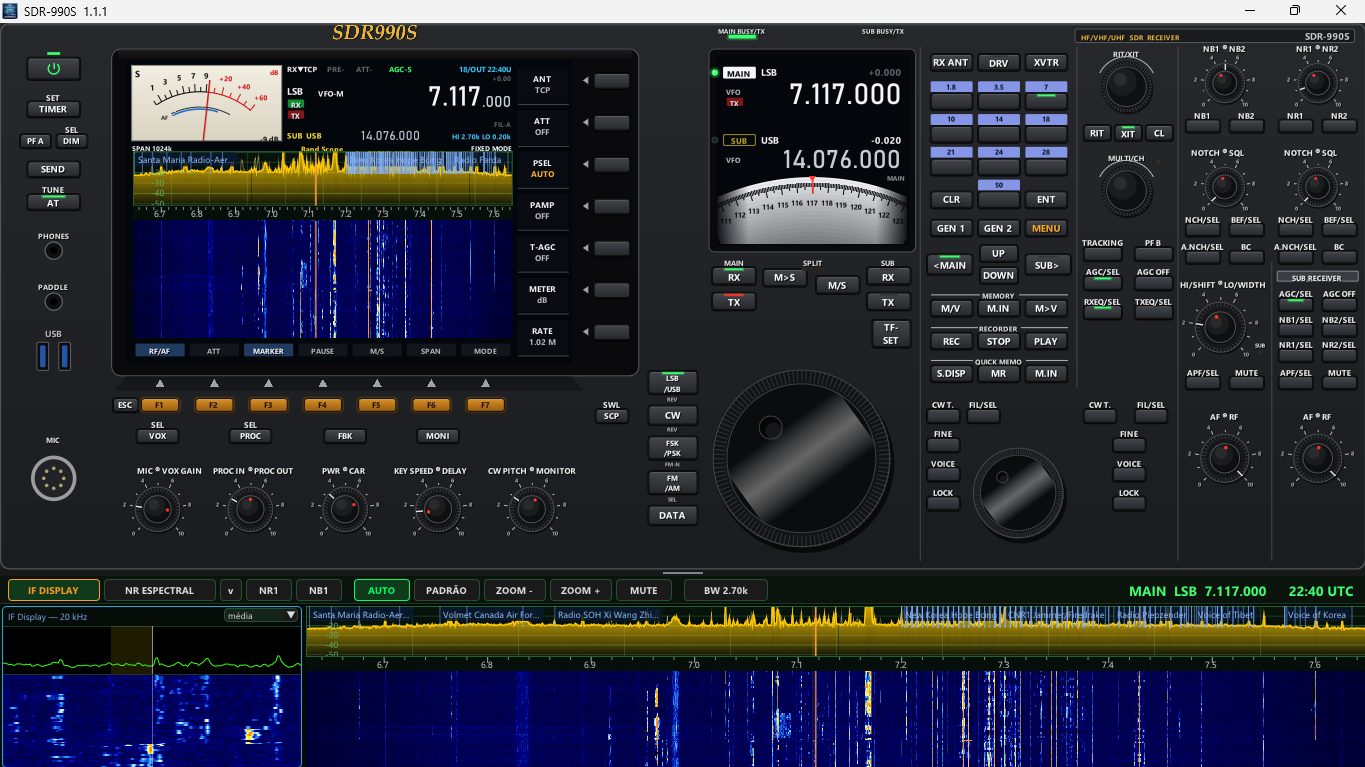
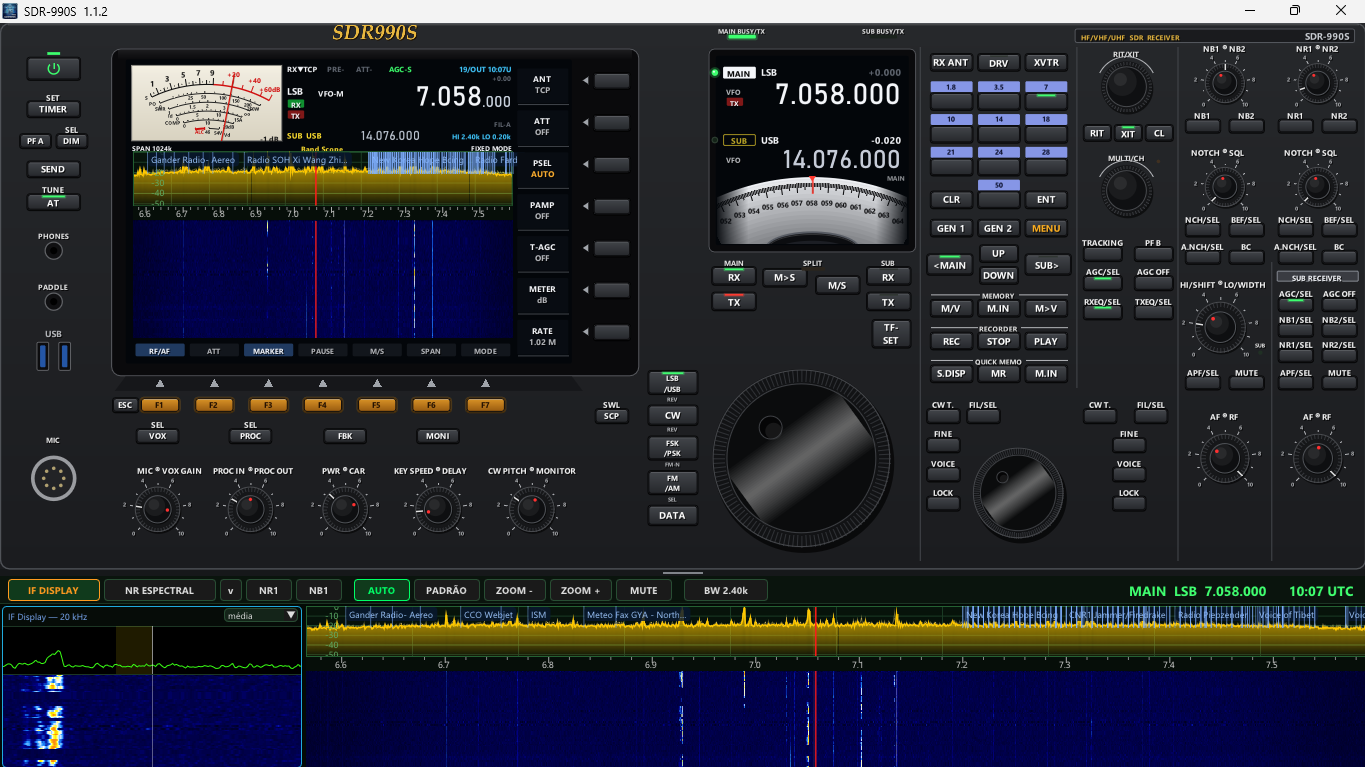
Atualizacao 19/10/2026  7:25:56,98

diff --git a/src/ui/Painel.cpp b/src/ui/Painel.cpp
@@ -623,6 +623,50 @@ void Ui::mudarModoPainel(const std::string& m)
     if (zoom_ > 0) centrarParaZoom(true);
 }
 
+// Roda do mouse em cima de um digito de uma frequencia do painel: aquele
+// digito sobe/desce (como no RXSDR). s e o texto desenhado alinhado a direita
+// em xDir; pesoUltimo = quanto vale o ultimo digito (1 Hz, ou 1 kHz quando a
+// parte dos Hz e desenhada separada). O digito embaixo do mouse fica sublinhado.
+void Ui::rodaDigitos(ImFont* f, float tam, float xDir, float y, const std::string& s, int rx, uint64_t pesoUltimo)
+{
+    if (!ImGui::IsWindowHovered()) return;          // outra janela (decoders, menu) por cima
+    ImGuiIO& io = ImGui::GetIO();
+    ImDrawList* dl = ImGui::GetWindowDrawList();
+    float xr = xDir;
+    uint64_t peso = pesoUltimo;
+    for (int j = (int)s.size() - 1; j >= 0; --j) {
+        const char c[2] = {s[(size_t)j], 0};
+        const float wc = larguraTexto(f, tam, c);
+        if (c[0] >= '0' && c[0] <= '9') {
+            const float tr = tamReal(tam);              // o mesmo tamanho que o texto() usou
+            const ImVec2 a = M.p(xr - wc, y + tr * 0.08f), b = M.p(xr, y + tr * 0.92f);
+            if (ImGui::IsMouseHoveringRect(a, b, false)) {
+                dl->AddLine(ImVec2(a.x + 1, b.y + M.d(0.6f)), ImVec2(b.x - 1, b.y + M.d(0.6f)), P_CIANO, std::max(1.5f, M.d(1.f)));
+                if (io.MouseWheel != 0) {
+                    int n = (int)std::lround(io.MouseWheel);
+                    if (n == 0) n = io.MouseWheel > 0 ? 1 : -1;
+                    mudarFreqRx(rx, (int64_t)n * (int64_t)peso);
+                    io.MouseWheel = 0;                  // a roda e deste digito (nao rola mais nada)
+                }
+            }
+            if (peso < 1000000000ULL) peso *= 10;
+        }
+        xr -= wc;
+    }
+}
+
+void Ui::mudarFreqRx(int rx, int64_t d)
+{
+    if (rx < 0 || rx > 1 || d == 0) return;
+    Receptor& R = rx_[rx];
+    if (R.lock || R.memModo) return;
+    const uint64_t f = rx == ativo_ ? r_.vfo() : R.f;
+    const int64_t nf = (int64_t)f + d;
+    if (nf < 1000 || nf > 2000000000LL) return;
+    if (rx == ativo_) sintonizar((uint64_t)nf, false);
+    R.f = (uint64_t)nf;
+}
+
 // M/S: so a "banda" (frequencia, modo, filtro, memoria) troca de lado; os
 // knobs e teclas de cada coluna (AF/RF, SQL, NB, NR, NOTCH, AGC, MUTE...) sao
 // fisicos e continuam no lugar - antes o squelch fechado de um ia para o outro
@@ -1137,59 +1181,151 @@ void Ui::medidorAnalogico(float x, float y, float w, float h)
                                 IM_COL32(0xd8, 0xd2, 0xc0, 255), IM_COL32(0xd8, 0xd2, 0xc0, 255));
     dl->AddRect(a, b, IM_COL32(0x60, 0x60, 0x60, 255), 0, 0, M.d(0.8f));
     dl->PushClipRect(a, b, true);
-    // mesma geometria do ponteiro do RXSDR: pivo embaixo, -128,1 + 78,2*pos graus
+    // Geometria como a do medidor do radio: pivo bem abaixo do mostrador,
+    // arcos grandes e abertos (o de cima pega ~80% da largura), +-29 graus.
     const float sx = w / 900.f, sy = h / 450.f;
     auto ponto = [&](float pos, float raio) {
-        const float an = (float)((-128.1 + 78.2 * pos) * kPi / 180.0);
-        return ImVec2(x + (406 + raio * std::cos(an)) * sx, y + (625 + raio * std::sin(an)) * sy);
+        const float an = (float)((-90.0 + (pos - 0.5) * 58.0) * kPi / 180.0);
+        return ImVec2(x + (450 + raio * std::cos(an)) * sx, y + (877 + raio * std::sin(an)) * sy);
     };
     const float sPos[] = {0.06f, 0.117f, 0.17f, 0.224f, 0.282f, 0.34f, 0.392f, 0.444f, 0.495f, 0.546f};
     const float dbPos[] = {0.62f, 0.693f, 0.77f, 0.845f, 0.92f, 0.996f};
     const ImU32 preto = IM_COL32(0x10, 0x10, 0x10, 255), verm = IM_COL32(0xd0, 0x10, 0x10, 255);
-    for (int i = 0; i < 59; ++i) {        // arco
-        const float p0 = 0.06f + i * (0.94f / 59), p1 = p0 + 0.94f / 59;
-        const ImVec2 q0 = ponto(p0, 470), q1 = ponto(p1, 470);
-        dl->AddLine(M.p(q0.x, q0.y), M.p(q1.x, q1.y), p0 < 0.546f ? preto : verm, M.d(1.2f));
-    }
+    // Escalas como no medidor do radio, em arcos em volta do mesmo pivo:
+    // S (o ponteiro le esta), PO, SWR, Id, COMP, a faixa do ALC e o Vd.
+    // Num receptor so o S anda; as outras ficam de enfeite, como no radio em RX.
+    const ImU32 cinza = IM_COL32(0x22, 0x22, 0x22, 255);
+    auto txMed = [&](float tamPapel, float bx, float by, ImU32 cor, const char* t, float alin) {
+        // escalas pequenas: tamanho direto (sem o aumento dos rotulos), minimo legivel
+        const float px = std::max(M.d(tamPapel), 6.5f);
+        ImFont* fo = melhor(f_.painel, px);
+        const ImVec2 ts = fo->CalcTextSizeA(px, FLT_MAX, 0, t);
+        const ImVec2 q = M.p(bx, by);
+        dl->AddText(fo, px, ImVec2(std::floor(q.x - ts.x * alin), std::floor(q.y - ts.y * 0.5f)), cor, t);
+    };
+    auto arco = [&](float p0, float p1, float raio, ImU32 cor, float esp) {
+        const int n = 40;
+        for (int k = 0; k < n; ++k) {
+            const ImVec2 q0 = ponto(p0 + (p1 - p0) * k / n, raio), q1 = ponto(p0 + (p1 - p0) * (k + 1) / n, raio);
+            dl->AddLine(M.p(q0.x, q0.y), M.p(q1.x, q1.y), cor, M.d(esp));
+        }
+    };
+    auto marca = [&](float pos, float r0, float r1, ImU32 cor, float esp) {
+        const ImVec2 q0 = ponto(pos, r0), q1 = ponto(pos, r1);
+        dl->AddLine(M.p(q0.x, q0.y), M.p(q1.x, q1.y), cor, M.d(esp));
+    };
+    auto pontinho = [&](float pos, float raio, ImU32 cor) {
+        const ImVec2 q = ponto(pos, raio);
+        dl->AddCircleFilled(M.p(q.x, q.y), M.d(0.55f), cor, 6);
+    };
+    auto rotuloEsq = [&](float pos, float raio, const char* t) {   // S, PO, SWR... na coluna da esquerda
+        const ImVec2 q = ponto(pos, raio);
+        txMed(4.6f, q.x - 1.5f, q.y, cinza, t, 1.f);
+    };
+    // --- S: 1..9 em preto, +20/+40/+60 dB em vermelho (numeros por cima do arco)
+    arco(0.06f, 0.546f, 765, preto, 1.2f);
+    arco(0.546f, 0.996f, 765, verm, 1.6f);
     for (int i = 0; i < 10; ++i) {
-        const ImVec2 q0 = ponto(sPos[i], 470), q1 = ponto(sPos[i], (i % 2) ? 515.f : 500.f);
-        dl->AddLine(M.p(q0.x, q0.y), M.p(q1.x, q1.y), preto, M.d(1.f));
+        marca(sPos[i], 765, (i % 2) ? 805.f : 790.f, preto, 1.f);
         if (i % 2 == 1) {
             char t[4]; std::snprintf(t, sizeof t, "%d", i);
-            const ImVec2 q = ponto(sPos[i], 570);
+            const ImVec2 q = ponto(sPos[i], 840);
             texto(f_.painel, 7.f, q.x, q.y - 4, preto, t, 0.5f);
         }
+        if (i < 9) pontinho((sPos[i] + sPos[i + 1]) * 0.5f, 777, preto);
     }
     for (int i = 0; i < 6; ++i) {
-        const ImVec2 q0 = ponto(dbPos[i], 470), q1 = ponto(dbPos[i], (i % 2) ? 515.f : 500.f);
-        dl->AddLine(M.p(q0.x, q0.y), M.p(q1.x, q1.y), verm, M.d(1.f));
+        marca(dbPos[i], 765, (i % 2) ? 805.f : 790.f, verm, 1.f);
         if (i % 2 == 1) {
-            const char* t[] = {"", "+20", "", "+40", "", "+60"};
-            const ImVec2 q = ponto(dbPos[i], 575);
-            texto(f_.painel, 6.2f, q.x, q.y - 4, verm, t[i], 0.5f);
+            const char* t[] = {"", "+20", "", "+40", "", "+60dB"};
+            const ImVec2 q = ponto(dbPos[i], 842);
+            texto(f_.painel, 6.f, q.x, q.y - 4, verm, t[i], i == 5 ? 0.75f : 0.5f);
         }
     }
-    texto(f_.painel, 8.f, x + 5, y + 3, preto, "S");
-    texto(f_.painel, 6.f, x + w - 4, y + 3, verm, "dB", 1.f);
-    // segunda escala: nivel de audio (no lugar do PO, AF)
-    for (int i = 0; i < 40; ++i) {
-        const float p0 = 0.15f + i * (0.7f / 40), p1 = p0 + 0.7f / 40;
-        const ImVec2 q0 = ponto(p0, 380), q1 = ponto(p1, 380);
-        dl->AddLine(M.p(q0.x, q0.y), M.p(q1.x, q1.y), IM_COL32(0x30, 0x30, 0x30, 255), M.d(0.8f));
-    }
+    rotuloEsq(0.045f, 765, "S");
+    // --- PO (W): 0..250, escala quadratica como a de potencia
     {
-        const ImVec2 q = ponto(0.12f, 365);
-        texto(f_.painel, 5.2f, q.x - 2, q.y - 3, IM_COL32(0x30, 0x30, 0x30, 255), "AF", 1.f);
-        const float n = std::clamp(olho_, 0.f, 1.f);
-        for (int i = 0; i < (int)(40 * n); ++i) {
-            const float p0 = 0.15f + i * (0.7f / 40), p1 = p0 + 0.7f / 40;
-            const ImVec2 q0 = ponto(p0, 368), q1 = ponto(p1, 368);
-            dl->AddLine(M.p(q0.x, q0.y), M.p(q1.x, q1.y), IM_COL32(0x20, 0x70, 0xd0, 255), M.d(1.8f));
+        const float a0 = 0.10f, a1 = 0.95f, R = 712;
+        auto pw = [&](float w) { return a0 + (a1 - a0) * std::sqrt(w / 250.f); };
+        arco(a0, a1, R, cinza, 0.9f);
+        const float rot[] = {0, 25, 50, 100, 150, 200, 250};
+        const char* rt[] = {"0", "25", "50", "100", "150", "200", "250W"};
+        for (int k = 0; k < 7; ++k) {
+            marca(pw(rot[k]), R, R + 12, cinza, 0.9f);
+            const ImVec2 q = ponto(pw(rot[k]), R - 24);
+            txMed(4.3f, q.x, q.y, cinza, rt[k], k == 6 ? 0.8f : 0.5f);
         }
+        const float mn[] = {5, 10, 15, 20, 35, 75, 125, 175, 225};
+        for (float m : mn) pontinho(pw(m), R + 6, cinza);
+        rotuloEsq(a0 - 0.012f, R, "PO");
+    }
+    // --- SWR: 1  1.5  2  3  infinito
+    {
+        const float a0 = 0.15f, a1 = 0.89f, R = 660;
+        auto sw = [&](float f) { return a0 + (a1 - a0) * f; };
+        arco(a0, a1, R, cinza, 0.9f);
+        const float fr[] = {0.f, 0.3f, 0.48f, 0.7f, 1.f};
+        const char* rt[] = {"1", "1.5", "2", "3", "\xE2\x88\x9E"};
+        for (int k = 0; k < 5; ++k) {
+            marca(sw(fr[k]), R, R + 11, cinza, 0.9f);
+            const ImVec2 q = ponto(sw(fr[k]), R - 23);
+            txMed(4.3f, q.x, q.y, cinza, k == 4 ? "oo" : rt[k], 0.5f);
+        }
+        const float mn[] = {0.12f, 0.22f, 0.39f, 0.58f, 0.85f};
+        for (float m : mn) pontinho(sw(m), R + 6, cinza);
+        rotuloEsq(a0 - 0.012f, R, "SWR");
+    }
+    // --- Id (A): 0..15
+    {
+        const float a0 = 0.20f, a1 = 0.84f, R = 608;
+        auto id = [&](float v) { return a0 + (a1 - a0) * v / 15.f; };
+        arco(a0, a1, R, cinza, 0.9f);
+        for (int v = 0; v <= 15; ++v) {
+            if (v % 5 == 0) {
+                marca(id((float)v), R, R + 10, cinza, 0.9f);
+                char t[8]; std::snprintf(t, sizeof t, v == 15 ? "%dA" : "%d", v);
+                const ImVec2 q = ponto(id((float)v), R - 22);
+                txMed(4.2f, q.x, q.y, cinza, t, v == 15 ? 0.7f : 0.5f);
+            } else pontinho(id((float)v), R + 5, cinza);
+        }
+        rotuloEsq(a0 - 0.012f, R, "Id");
+    }
+    // --- COMP (dB): 0..20
+    {
+        const float a0 = 0.25f, a1 = 0.78f, R = 556;
+        auto cp = [&](float v) { return a0 + (a1 - a0) * v / 20.f; };
+        arco(a0, a1, R, cinza, 0.9f);
+        for (int v = 0; v <= 20; v += 2) {
+            if (v % 10 == 0) {
+                marca(cp((float)v), R, R + 10, cinza, 0.9f);
+                char t[8]; std::snprintf(t, sizeof t, v == 20 ? "%ddB" : "%d", v);
+                const ImVec2 q = ponto(cp((float)v), R - 22);
+                txMed(4.1f, q.x, q.y, cinza, t, v == 20 ? 0.7f : 0.5f);
+            } else pontinho(cp((float)v), R + 5, cinza);
+        }
+        rotuloEsq(a0 - 0.012f, R, "COMP");
+    }
+    // --- faixa do ALC (vermelha, com a seta) e o Vd (46-54 V)
+    {
+        const float R = 506;
+        arco(0.36f, 0.47f, R, verm, 2.2f);
+        const ImVec2 s0 = ponto(0.36f, R), s1 = ponto(0.375f, R + 9), s2 = ponto(0.375f, R - 9);
+        dl->AddTriangleFilled(M.p(s0.x, s0.y), M.p(s1.x, s1.y), M.p(s2.x, s2.y), verm);
+        marca(0.47f, R - 8, R + 8, verm, 1.2f);
+        const ImVec2 q = ponto(0.415f, R - 22);
+        txMed(4.3f, q.x, q.y, verm, "ALC", 0.5f);
+        const float v0 = 0.52f, v1 = 0.64f;
+        arco(v0, v1, R, cinza, 0.9f);
+        marca(v0, R, R + 11, cinza, 0.9f);
+        marca(v1, R, R + 11, cinza, 0.9f);
+        const ImVec2 qa = ponto(v0, R - 21), qb = ponto(v1, R - 21), qc = ponto(v1 + 0.115f, R - 21);
+        txMed(4.f, qa.x, qa.y, cinza, "46", 0.5f);
+        txMed(4.f, qb.x, qb.y, cinza, "54V", 0.5f);
+        txMed(4.f, qc.x, qc.y, cinza, "Vd", 0.5f);
     }
     {   // ponteiro
         const float pos = std::clamp(smAtual_, 0.f, 1.02f);
-        const ImVec2 p0 = ponto(pos, 120), p1 = ponto(pos, 540);
+        const ImVec2 p0 = ponto(pos, 420), p1 = ponto(pos, 845);
         dl->AddLine(M.p(p0.x + 0.6f, p0.y + 0.8f), M.p(p1.x + 0.6f, p1.y + 0.8f), IM_COL32(0, 0, 0, 60), M.d(1.6f));
         dl->AddLine(M.p(p0.x, p0.y), M.p(p1.x, p1.y), IM_COL32(0xd8, 0x18, 0x10, 255), M.d(1.4f));
     }
@@ -1447,6 +1583,8 @@ void Ui::telaPrincipal()
             const float wHz = larguraTexto(f_.lcd, 17.f, hz.c_str());
             texto(f_.lcd, 30.f, 562 - wHz, 66, lig ? P_BRANCO : P_APAGADO, mhz.c_str(), 1.f);
             texto(f_.lcd, 17.f, 562, 79, lig ? IM_COL32(0xc8, 0xd0, 0xdc, 255) : P_APAGADO, hz.c_str(), 1.f);
+            rodaDigitos(f_.lcd, 30.f, 562 - wHz, 66, mhz, ativo_, 1000);
+            rodaDigitos(f_.lcd, 17.f, 562, 79, hz, ativo_, 1);
             if (!R.memModo) texto(f_.painel, 6.f, 562, 106, P_APAGADO, ("FIL-" + std::string(kNomesFil[R.fil])).c_str(), 1.f);
         }
         // linha do outro receptor (pequena) e do filtro
@@ -1454,6 +1592,7 @@ void Ui::telaPrincipal()
             std::snprintf(b, sizeof b, "%s  %s", ativo_ == 0 ? "SUB" : "MAIN", O.modo.c_str());
             texto(f_.painel, 7.f, 316, 118, ativo_ == 0 ? P_AMARELO : P_BRANCO, b);
             texto(f_.lcd, 11.f, 462, 117, IM_COL32(0xb8, 0xc0, 0xcc, 255), fmtFreqLcd(O.f).c_str(), 1.f);
+            rodaDigitos(f_.lcd, 11.f, 462, 117, fmtFreqLcd(O.f), 1 - ativo_, 1);
             const int g = grupoModo(modo);
             if (g == 0) std::snprintf(b, sizeof b, "HI %.2fk LO %.2fk", filHi_[0][R.fil] / 1000.f, filLo_[0][R.fil] / 1000.f);
             else if (g == 1) std::snprintf(b, sizeof b, "W %.0f SH %+.0f", filHi_[1][R.fil], filLo_[1][R.fil]);
@@ -1754,6 +1893,7 @@ void Ui::telaSub()
             texto(f_.painel, 9.f, 990, y0 + 1, R.ritOn ? P_BRANCO : P_APAGADO, b, 1.f);
             const std::string fs = fmtFreqLcd(f);
             texto(f_.lcd, i == 0 ? 32.f : 28.f, 990, y0 + 17, lig ? (at ? P_BRANCO : IM_COL32(0xc6, 0xcc, 0xd8, 255)) : P_APAGADO, fs.c_str(), 1.f);
+            rodaDigitos(f_.lcd, i == 0 ? 32.f : 28.f, 990, y0 + 17, fs, i, 1);
             if (R.lock) texto(f_.painel, 6.f, 836, y0 + 24, P_VERMELHO, "LOCK");
             if (R.fine) texto(f_.painel, 6.f, 862, y0 + 24, P_CIANO, "FINE");
             if (R.sql > -90.f) {   // squelch ligado neste receptor (vermelho = fechando o som agora)
@@ -1866,6 +2006,16 @@ void Ui::arcoVfo()
                                 IM_COL32(3, 6, 10, 0), IM_COL32(3, 6, 10, 255));
     dl->AddRectFilledMultiColor(M.p(x1 - 34, y0), M.p(x1 + 3, y1), IM_COL32(3, 6, 10, 0), IM_COL32(3, 6, 10, 255),
                                 IM_COL32(3, 6, 10, 255), IM_COL32(3, 6, 10, 0));
+    // meia-lua escura no meio da borda de baixo (o cubo do tambor, como no radio)
+    {
+        const ImVec2 cm = M.p(cx, y1 + 5.f);
+        const ImVec2 r0(M.d(50.f), M.d(17.f));
+        dl->AddEllipseFilled(cm, ImVec2(r0.x + M.d(2.2f), r0.y + M.d(2.2f)), IM_COL32(0x58, 0x5c, 0x64, lig ? 255 : 160), 0.f, 64);   // borda clara
+        dl->AddEllipseFilled(cm, r0, IM_COL32(0x0c, 0x0d, 0x10, 255), 0.f, 64);
+        dl->AddEllipseFilled(ImVec2(cm.x, cm.y + M.d(3.f)), ImVec2(r0.x * 0.82f, r0.y * 0.7f), IM_COL32(0x1c, 0x1e, 0x24, 255), 0.f, 64);   // fundo com volume
+        dl->PathEllipticalArcTo(cm, ImVec2(r0.x - M.d(1.2f), r0.y - M.d(1.2f)), 0.f, (float)(-kPi * 0.92), (float)(-kPi * 0.08), 48);
+        dl->PathStroke(IM_COL32(255, 255, 255, lig ? 40 : 15), 0, M.d(0.8f));                                               // reflexo fino
+    }
     // ponteiro fixo no meio
     const ImU32 corPont = lig ? P_VERMELHO : P_APAGADO;
     dl->AddLine(M.p(cx, topo - 6), M.p(cx, topo + 11.5f), alfa(corPont, 110), M.d(2.6f));   // para acima dos numeros

diff --git a/src/ui/Ui.h b/src/ui/Ui.h
@@ -102,6 +102,9 @@ private:
     void lerPedidoTeste();          // teste.pedido ao lado do exe (teste remoto)
     void arcoVfo();                 // escala em meia-lua da tela SUB (gira com o VFO)
     void trocarMainSub();           // tecla M/S
+    // roda do mouse em cima de um digito da frequencia (texto alinhado a direita em xDir)
+    void rodaDigitos(ImFont* f, float tam, float xDir, float y, const std::string& s, int rx, uint64_t pesoUltimo);
+    void mudarFreqRx(int rx, int64_t deltaHz);
     double arcoF_ = 0;              // frequencia que a escala mostra (segue o VFO suavemente)
     double arcoResto_ = 0;          // Hz arrastados que ainda nao deram um passo
     void autoCachoeira();                 // botao AUTO (igual a pagina)

diff --git a/src/ui/Recursos.h b/src/ui/Recursos.h
@@ -4,5 +4,5 @@
 #define IDR_SMETER_PNG   201
 #define IDR_OLHO_PNG     202
 
-#define RXSDR_VERSAO     "1.1.1"
-#define RXSDR_VERSAO_W   L"1.1.1"
+#define RXSDR_VERSAO     "1.1.2"
+#define RXSDR_VERSAO_W   L"1.1.2"

diff --git a/CHANGELOG.md b/CHANGELOG.md
@@ -1,5 +1,11 @@
 # SDR990S - histórico
 
+## SDR990S 1.1.2
+
+- Roda do mouse em cima de um dígito de qualquer frequência (VFO da tela principal, a linha do outro receptor e as duas da tela MAIN/SUB) muda aquele dígito; o dígito embaixo do mouse fica sublinhado.
+- S-meter mais parecido com o do rádio: escalas S, PO, SWR, Id e COMP em arcos abertos, faixa do ALC com a seta e o Vd; ponteiro longo cruzando todas.
+- Escala em meia-lua do VFO com o cubo escuro embaixo, no meio, como no rádio.
+
 ## SDR990S 1.1.1
 
 - Decodificador FT8 e FT4 (só recepção), dentro do programa, com o ft8_lib (MIT). Lista com hora UTC, dB, DT, Hz e mensagem; CQ em verde; filtro "Só CQ" e busca; lista de bandas (160 m a 2 m); ao escolher, o rádio vai para USB e para a frequência do FT8 da banda em que está.
